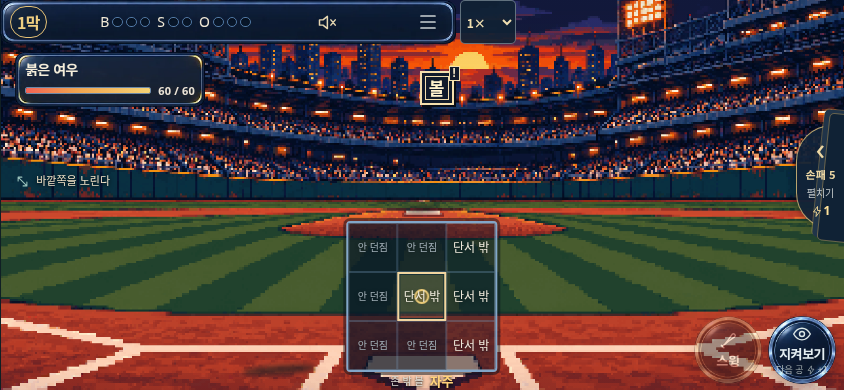
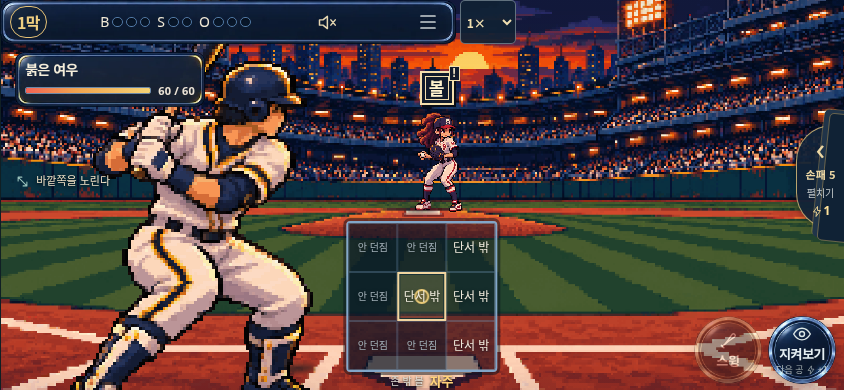
Capture confirmed outside after actor texture presentation settles

Changed region(s): [[0.0616, 0.0923, 0.3697, 1.0], [0.4929, 0.2769, 0.5545, 0.5538]]

diff --git a/docs/qa/fox-three-fixes-20261119/verify-outside.py b/docs/qa/fox-three-fixes-20261119/verify-outside.py
@@ -6,7 +6,7 @@ with sync_playwright() as pw:
  b=pw.chromium.launch(executable_path='/usr/bin/chromium',args=['--no-sandbox']);a=b.new_page(viewport={'width':844,'height':390},is_mobile=True,has_touch=True,device_scale_factor=1)
  a.add_init_script('sessionStorage.setItem("9zone-playable-v1:9zone-v10-run",'+json.dumps(json.dumps(state))+');')
  a.goto('http://127.0.0.1:4190/dist/?battleUi=vnext&battlePlay=1&seed=20261119');a.wait_for_selector('.bv-intent-outside');badge=a.locator('.bv-public-intent');assert badge.inner_text()=='볼\n!';assert badge.get_attribute('aria-label')=='공개 의도 · 존 밖 볼 확정';assert a.locator('.bv-intent-nine [data-active]').count()==0
- a.wait_for_function("[...document.querySelectorAll('.bv-actor img')].length===2 && [...document.querySelectorAll('.bv-actor img')].every(i=>i.complete&&i.naturalWidth>0)");a.wait_for_timeout(150)
+ a.wait_for_function("[...document.querySelectorAll('.bv-actor img')].length===2 && [...document.querySelectorAll('.bv-actor img')].every(i=>i.complete&&i.naturalWidth>0)");a.wait_for_timeout(2500)
  a.screenshot(path=str(p/'confirmed-outside.png'));a.get_by_test_id('bp-swing').click();a.wait_for_timeout(100);assert a.locator('.bv-public-intent').count()==0;a.wait_for_timeout(3400);a.wait_for_selector('.bv-public-intent');assert a.locator('.bv-intent-outside').count()==0
  (p/'outside-verification.json').write_text(json.dumps({'fixture':'controlled outside pitch, then legal scout via playV10Action; earned resumed state. Not a naturally encountered draw.','source':'existing public knownPitchZones=[9]','badge':'볼!','noInsideHighlight':True,'flightHidden':True,'nextDecisionRestoredWithoutStaleOutside':True,'viewport':[844,390]},ensure_ascii=False,indent=2));b.close()
 print('PASS extracted ZIP outside earned-clue badge/flight/reset')
